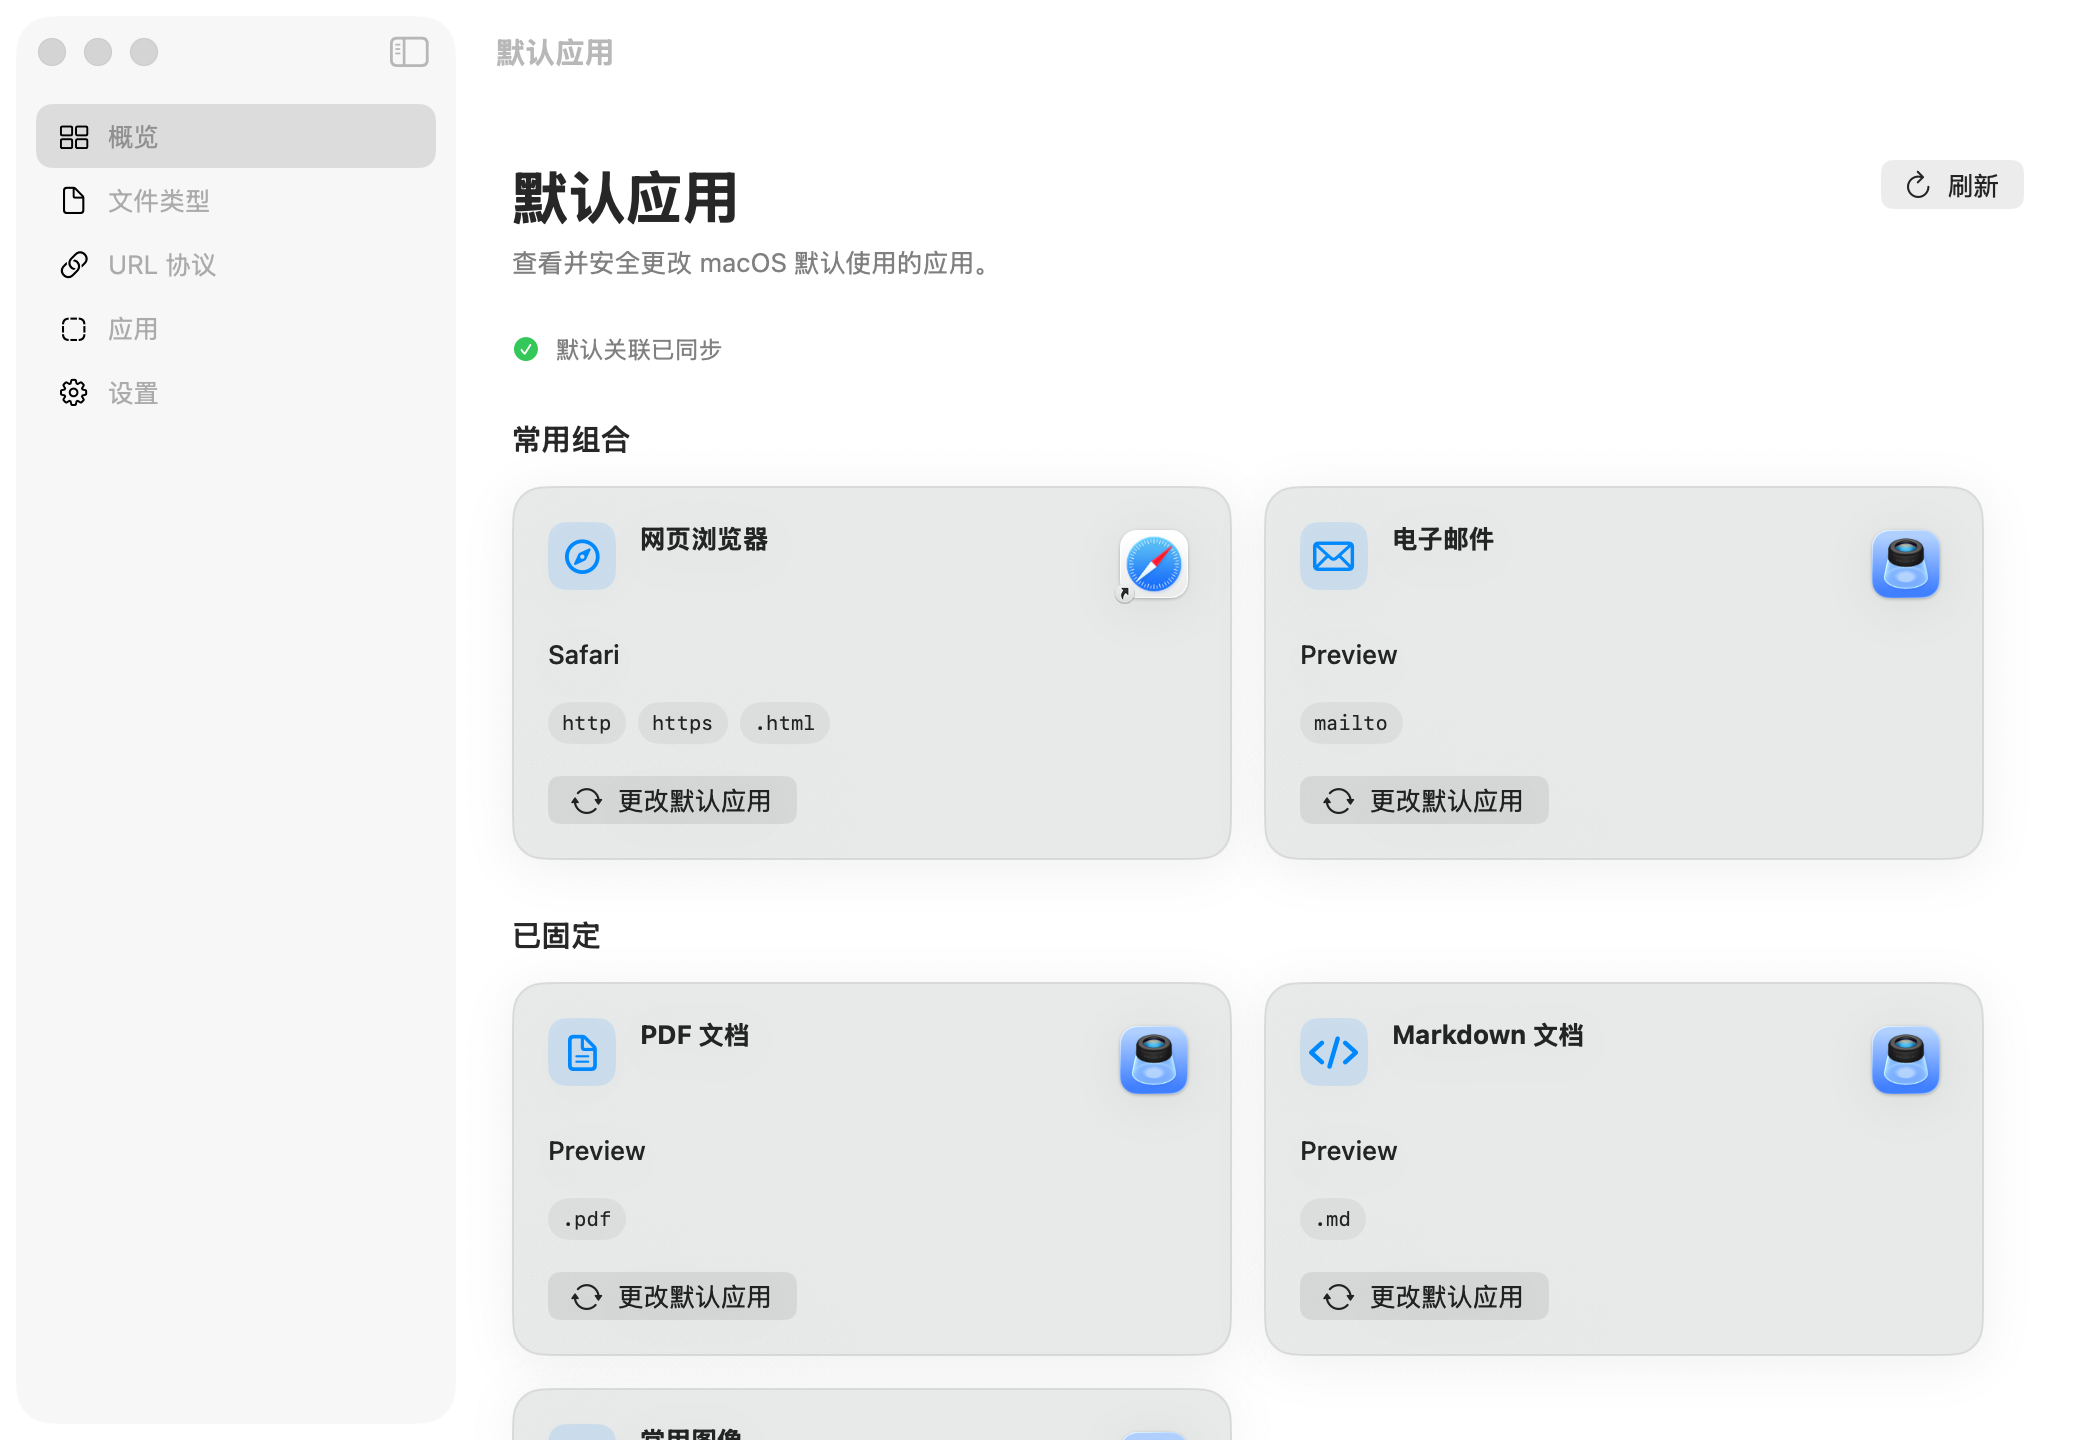
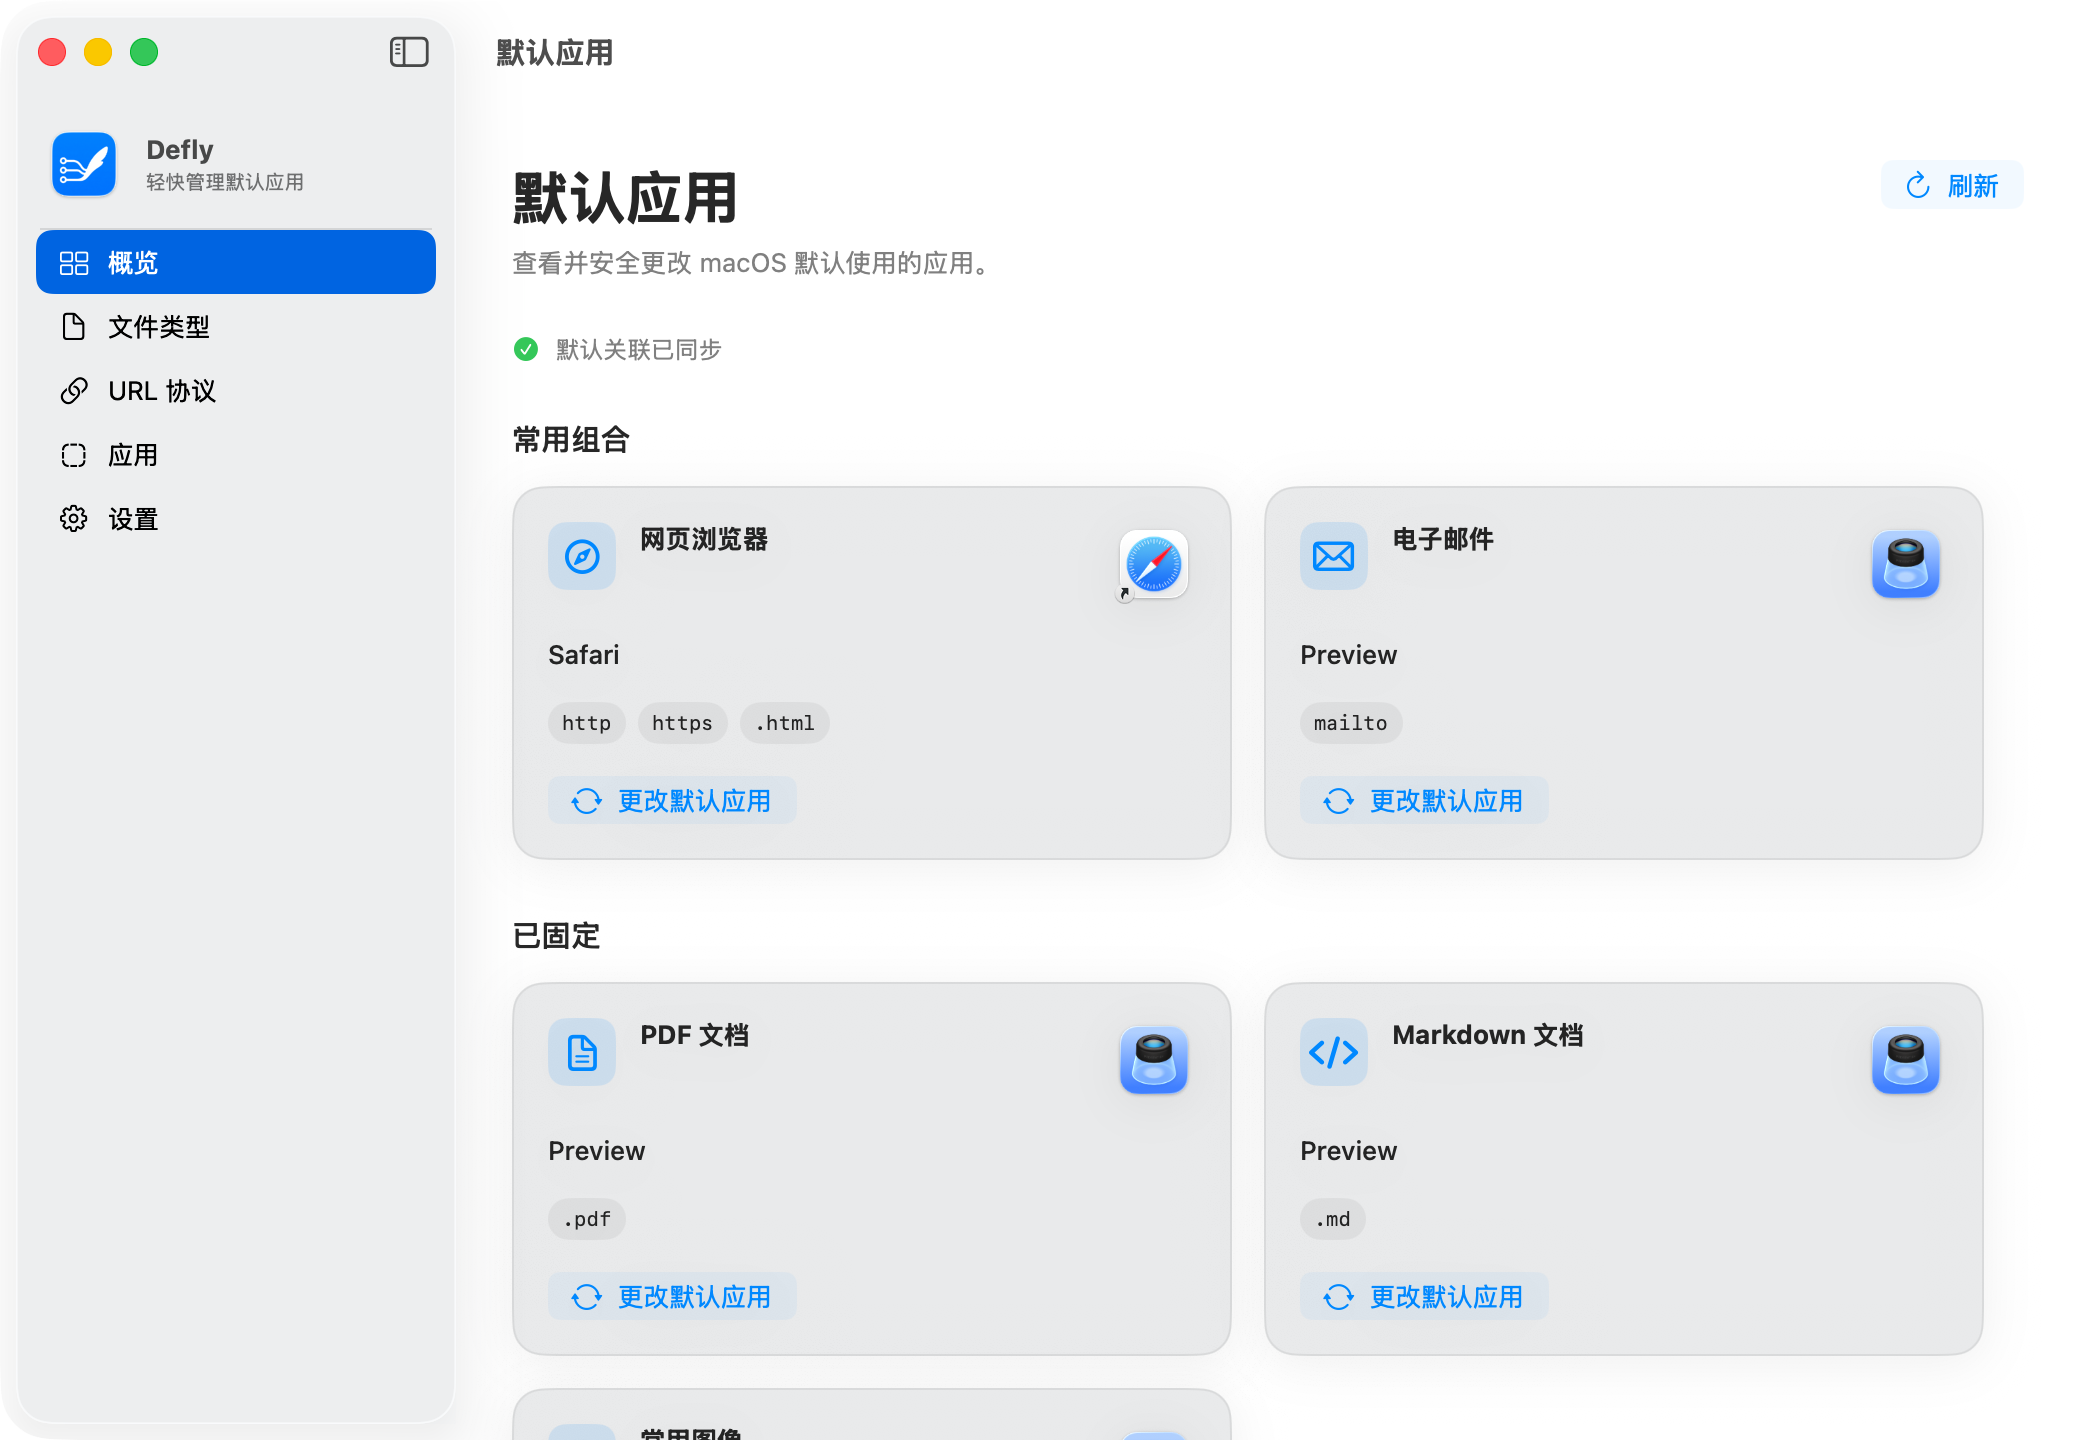
feat(品牌): 完善应用图标展示并发布 0.1.1
统一 README 与应用内的品牌呈现，并同步更新截图和版本元数据。

diff --git a/Sources/DeflyApp/UI/Settings/SettingsView.swift b/Sources/DeflyApp/UI/Settings/SettingsView.swift
@@ -167,34 +167,48 @@ struct SettingsView: View {
 
     private var aboutCard: some View {
         GlassCard {
-            VStack(alignment: .leading, spacing: 14) {
-                Label(
-                    "settings.about",
-                    systemImage: "info.circle"
-                )
-                .font(.headline)
+            HStack(alignment: .top, spacing: 16) {
+                DeflyIconView(size: 64)
 
-                LabeledContent("settings.version") {
-                    Text(version)
-                        .font(.body.monospacedDigit())
-                }
+                VStack(alignment: .leading, spacing: 9) {
+                    HStack(alignment: .firstTextBaseline) {
+                        Text("settings.about")
+                            .font(.title3.weight(.semibold))
 
-                if let repositoryURL = URL(
-                    string: "https://github.com/maple-yf/Defly"
-                ) {
-                    Link(destination: repositoryURL) {
-                        Label(
-                            "settings.repository",
-                            systemImage: "arrow.up.right.square"
-                        )
+                        Spacer(minLength: 24)
+
+                        HStack(spacing: 6) {
+                            Text("settings.version")
+                                .font(.caption)
+                                .foregroundStyle(.secondary)
+                            Text(version)
+                                .font(.body.monospacedDigit())
+                        }
                     }
-                }
 
-                Text("settings.openSourceDescription")
-                    .font(.caption)
-                    .foregroundStyle(.secondary)
+                    Text("brand.tagline")
+                        .font(.callout)
+                        .foregroundStyle(.secondary)
+
+                    if let repositoryURL = URL(
+                        string: "https://github.com/maple-yf/Defly"
+                    ) {
+                        Link(destination: repositoryURL) {
+                            Label(
+                                "settings.repository",
+                                systemImage: "arrow.up.right.square"
+                            )
+                        }
+                    }
+
+                    Text("settings.openSourceDescription")
+                        .font(.caption)
+                        .foregroundStyle(.secondary)
+                }
             }
             .frame(maxWidth: .infinity, alignment: .leading)
+            .accessibilityElement(children: .contain)
+            .accessibilityIdentifier("settings.aboutBrand")
         }
     }
 
@@ -223,7 +237,7 @@ struct SettingsView: View {
     private var version: String {
         Bundle.main.object(
             forInfoDictionaryKey: "CFBundleShortVersionString"
-        ) as? String ?? "0.1.0"
+        ) as? String ?? "0.1.1"
     }
 
     private static func symbolName(

diff --git a/Sources/DeflyApp/UI/AppShellView.swift b/Sources/DeflyApp/UI/AppShellView.swift
@@ -52,24 +52,33 @@ struct AppShellView: View {
 
     var body: some View {
         NavigationSplitView {
-            List(
-                SidebarDestination.allCases,
-                selection: $selection
-            ) { destination in
-                Label {
-                    Text(
-                        LocalizedStringKey(
-                            destination.localizationKey
+            VStack(spacing: 0) {
+                sidebarBrand
+
+                Divider()
+                    .padding(.horizontal, 12)
+
+                List(
+                    SidebarDestination.allCases,
+                    selection: $selection
+                ) { destination in
+                    Label {
+                        Text(
+                            LocalizedStringKey(
+                                destination.localizationKey
+                            )
                         )
+                    } icon: {
+                        Image(systemName: destination.symbolName)
+                    }
+                    .tag(destination)
+                    .accessibilityIdentifier(
+                        "sidebar.\(destination.rawValue)"
                     )
-                } icon: {
-                    Image(systemName: destination.symbolName)
                 }
-                .tag(destination)
-                .accessibilityIdentifier(
-                    "sidebar.\(destination.rawValue)"
-                )
+                .listStyle(.sidebar)
             }
+            .background(.thinMaterial)
             .navigationSplitViewColumnWidth(
                 min: 190,
                 ideal: 220,
@@ -100,6 +109,29 @@ struct AppShellView: View {
         } message: {
             Text("change.noChanges.message")
         }
+    }
+
+    private var sidebarBrand: some View {
+        HStack(spacing: 11) {
+            DeflyIconView(size: 40)
+
+            VStack(alignment: .leading, spacing: 2) {
+                Text(verbatim: "Defly")
+                    .font(.headline)
+                Text("brand.tagline")
+                    .font(.caption2)
+                    .foregroundStyle(.secondary)
+                    .lineLimit(1)
+                    .minimumScaleFactor(0.75)
+            }
+
+            Spacer(minLength: 0)
+        }
+        .padding(.horizontal, 14)
+        .padding(.top, 10)
+        .padding(.bottom, 12)
+        .accessibilityElement(children: .contain)
+        .accessibilityIdentifier("sidebar.brand")
     }
 
     @ViewBuilder

diff --git a/Tests/DeflyUITests/DeflyUITests.swift b/Tests/DeflyUITests/DeflyUITests.swift
@@ -16,6 +16,29 @@ final class DeflyUITests: XCTestCase {
         XCTAssertTrue(app.staticTexts["设置"].exists)
     }
 
+    func testBrandingAppearsInSidebarAndSettings() {
+        let app = XCUIApplication()
+        app.launchArguments = ["-ui-testing", "-reset-preferences"]
+        app.launch()
+
+        XCTAssertTrue(
+            app.staticTexts["Defly"]
+                .waitForExistence(timeout: 3)
+        )
+        XCTAssertTrue(app.staticTexts["轻快管理默认应用"].exists)
+
+        app.staticTexts["设置"].click()
+        XCTAssertTrue(
+            app.staticTexts["关于 Defly"]
+                .waitForExistence(timeout: 3)
+        )
+        XCTAssertTrue(
+            app.staticTexts[
+                "Defly 以开源方式开发，并且只使用 Apple 公共 API。"
+            ].exists
+        )
+    }
+
     func testFileTypeSearchSelectsPDFAndShowsIdentifier() {
         let app = XCUIApplication()
         app.launchArguments = ["-ui-testing", "-use-fixtures"]

diff --git a/Sources/DeflyApp/UI/Components/DeflyIconView.swift b/Sources/DeflyApp/UI/Components/DeflyIconView.swift
@@ -1,0 +1,16 @@
+import AppKit
+import SwiftUI
+
+struct DeflyIconView: View {
+    let size: CGFloat
+
+    var body: some View {
+        Image(nsImage: NSApplication.shared.applicationIconImage)
+            .resizable()
+            .interpolation(.high)
+            .antialiased(true)
+            .scaledToFit()
+            .frame(width: size, height: size)
+            .accessibilityHidden(true)
+    }
+}

diff --git a/README.md b/README.md
@@ -1,22 +1,26 @@
-# Defly
+<p align="center">
+  <img src="Sources/DeflyApp/Resources/Assets.xcassets/AppIcon.appiconset/icon_256x256.png" width="128" alt="Defly 应用图标">
+</p>
+
+<h1 align="center">Defly</h1>
+
+<p align="center"><em>Set your defaults simply.</em></p>
 
 Defly 是一款原生 macOS 默认应用管理工具，用来查看并安全修改文件类型、UTType 与 URL Scheme 的默认处理应用。
 
 > **Defly** 取自 **Default + fly**：一键搞定默认设置，轻快利落。
->
-> *Set your defaults simply.*
 
 项目参考 [SwiftDefaultApps](https://github.com/Lord-Kamina/SwiftDefaultApps) 的能力范围，但采用独立 App、现代 Apple 公共 API 和明确的二次确认流程，不读写私有 LaunchServices 数据库。
 
 ## 界面预览
 
-![Defly 中文概览页，展示浏览器、邮件与固定默认应用](docs/images/defly-overview.png)
+![Defly 中文概览页，左侧显示品牌图标，主界面展示浏览器、邮件与固定默认应用](docs/images/defly-overview.png)
 
-<p align="center"><sub>概览页集中展示常用组合和自定义固定项目；截图使用内置测试数据，不读取本机默认应用。</sub></p>
+<p align="center"><sub>概览页通过侧栏品牌区呈现 Defly 图标，并集中展示常用组合和自定义固定项目；截图使用内置测试数据，不读取本机默认应用。</sub></p>
 
-![Defly 设置页，展示中英文切换和概览固定项目](docs/images/defly-settings.png)
+![Defly 设置页，展示品牌信息、中英文切换和概览固定项目](docs/images/defly-settings.png)
 
-<p align="center"><sub>设置页支持中英文即时切换，并可自由决定概览页显示哪些关联。</sub></p>
+<p align="center"><sub>设置页在“关于 Defly”区域展示应用图标，支持中英文即时切换，并可自由决定概览页显示哪些关联。</sub></p>
 
 ## 功能介绍
 
